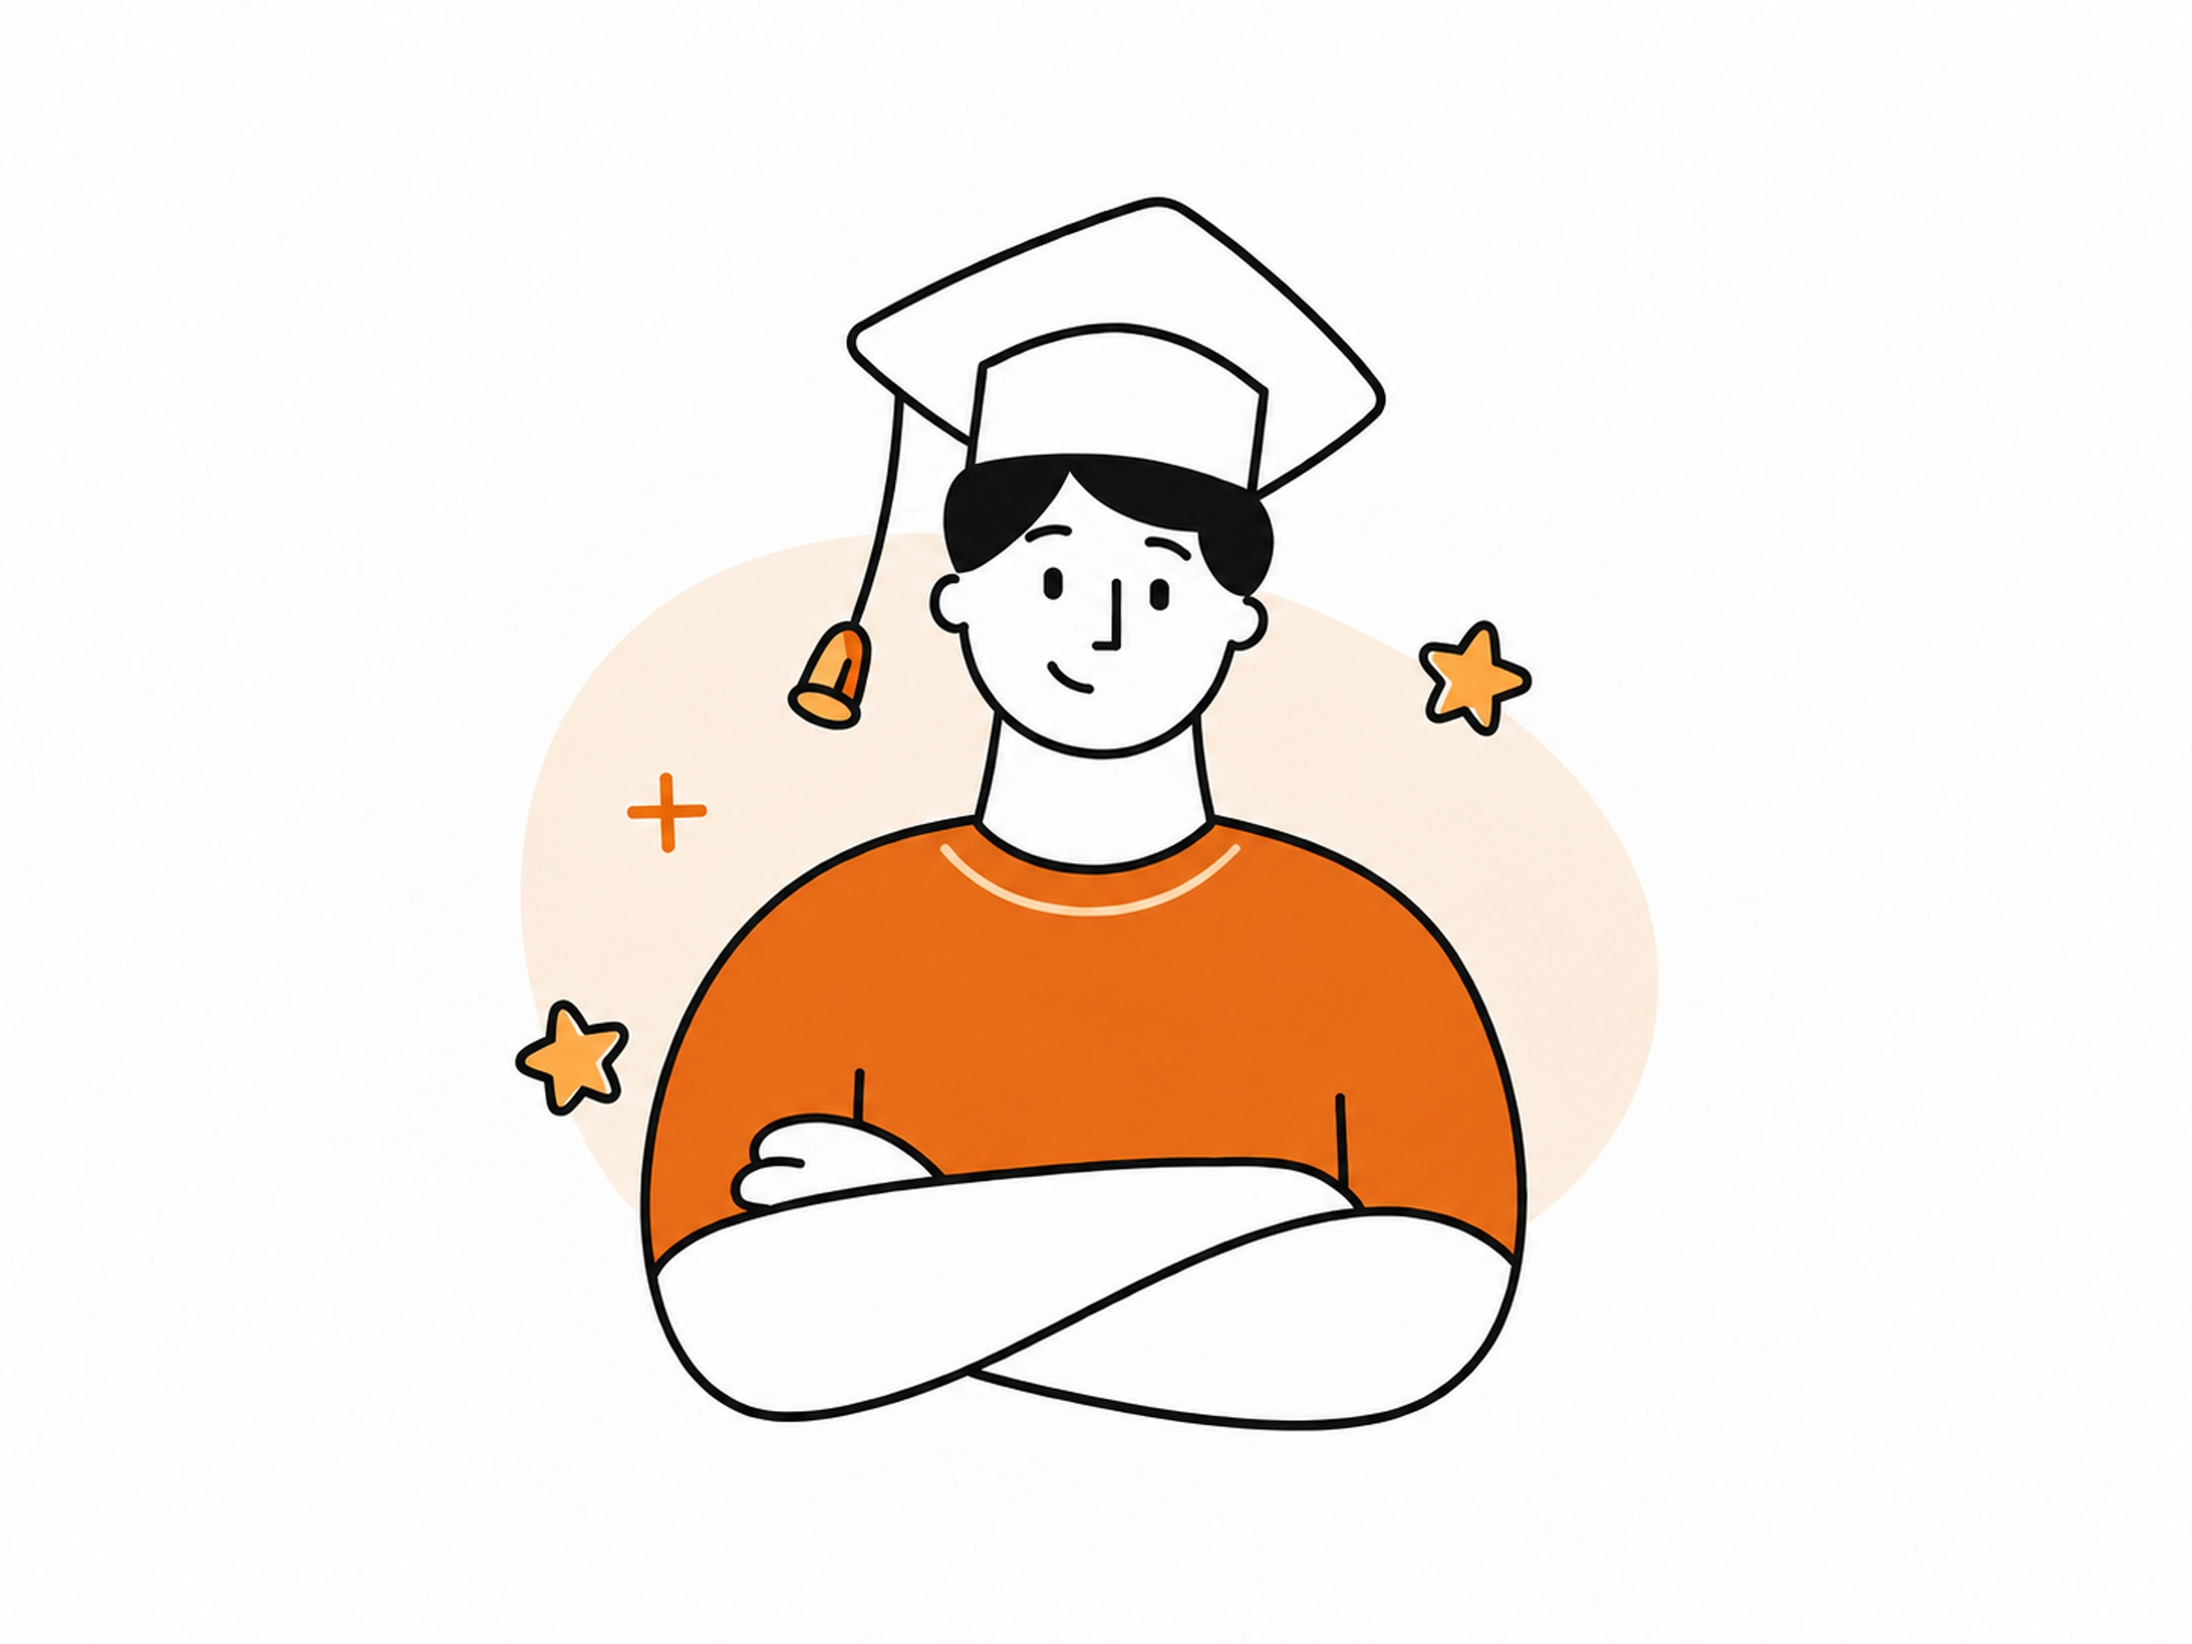
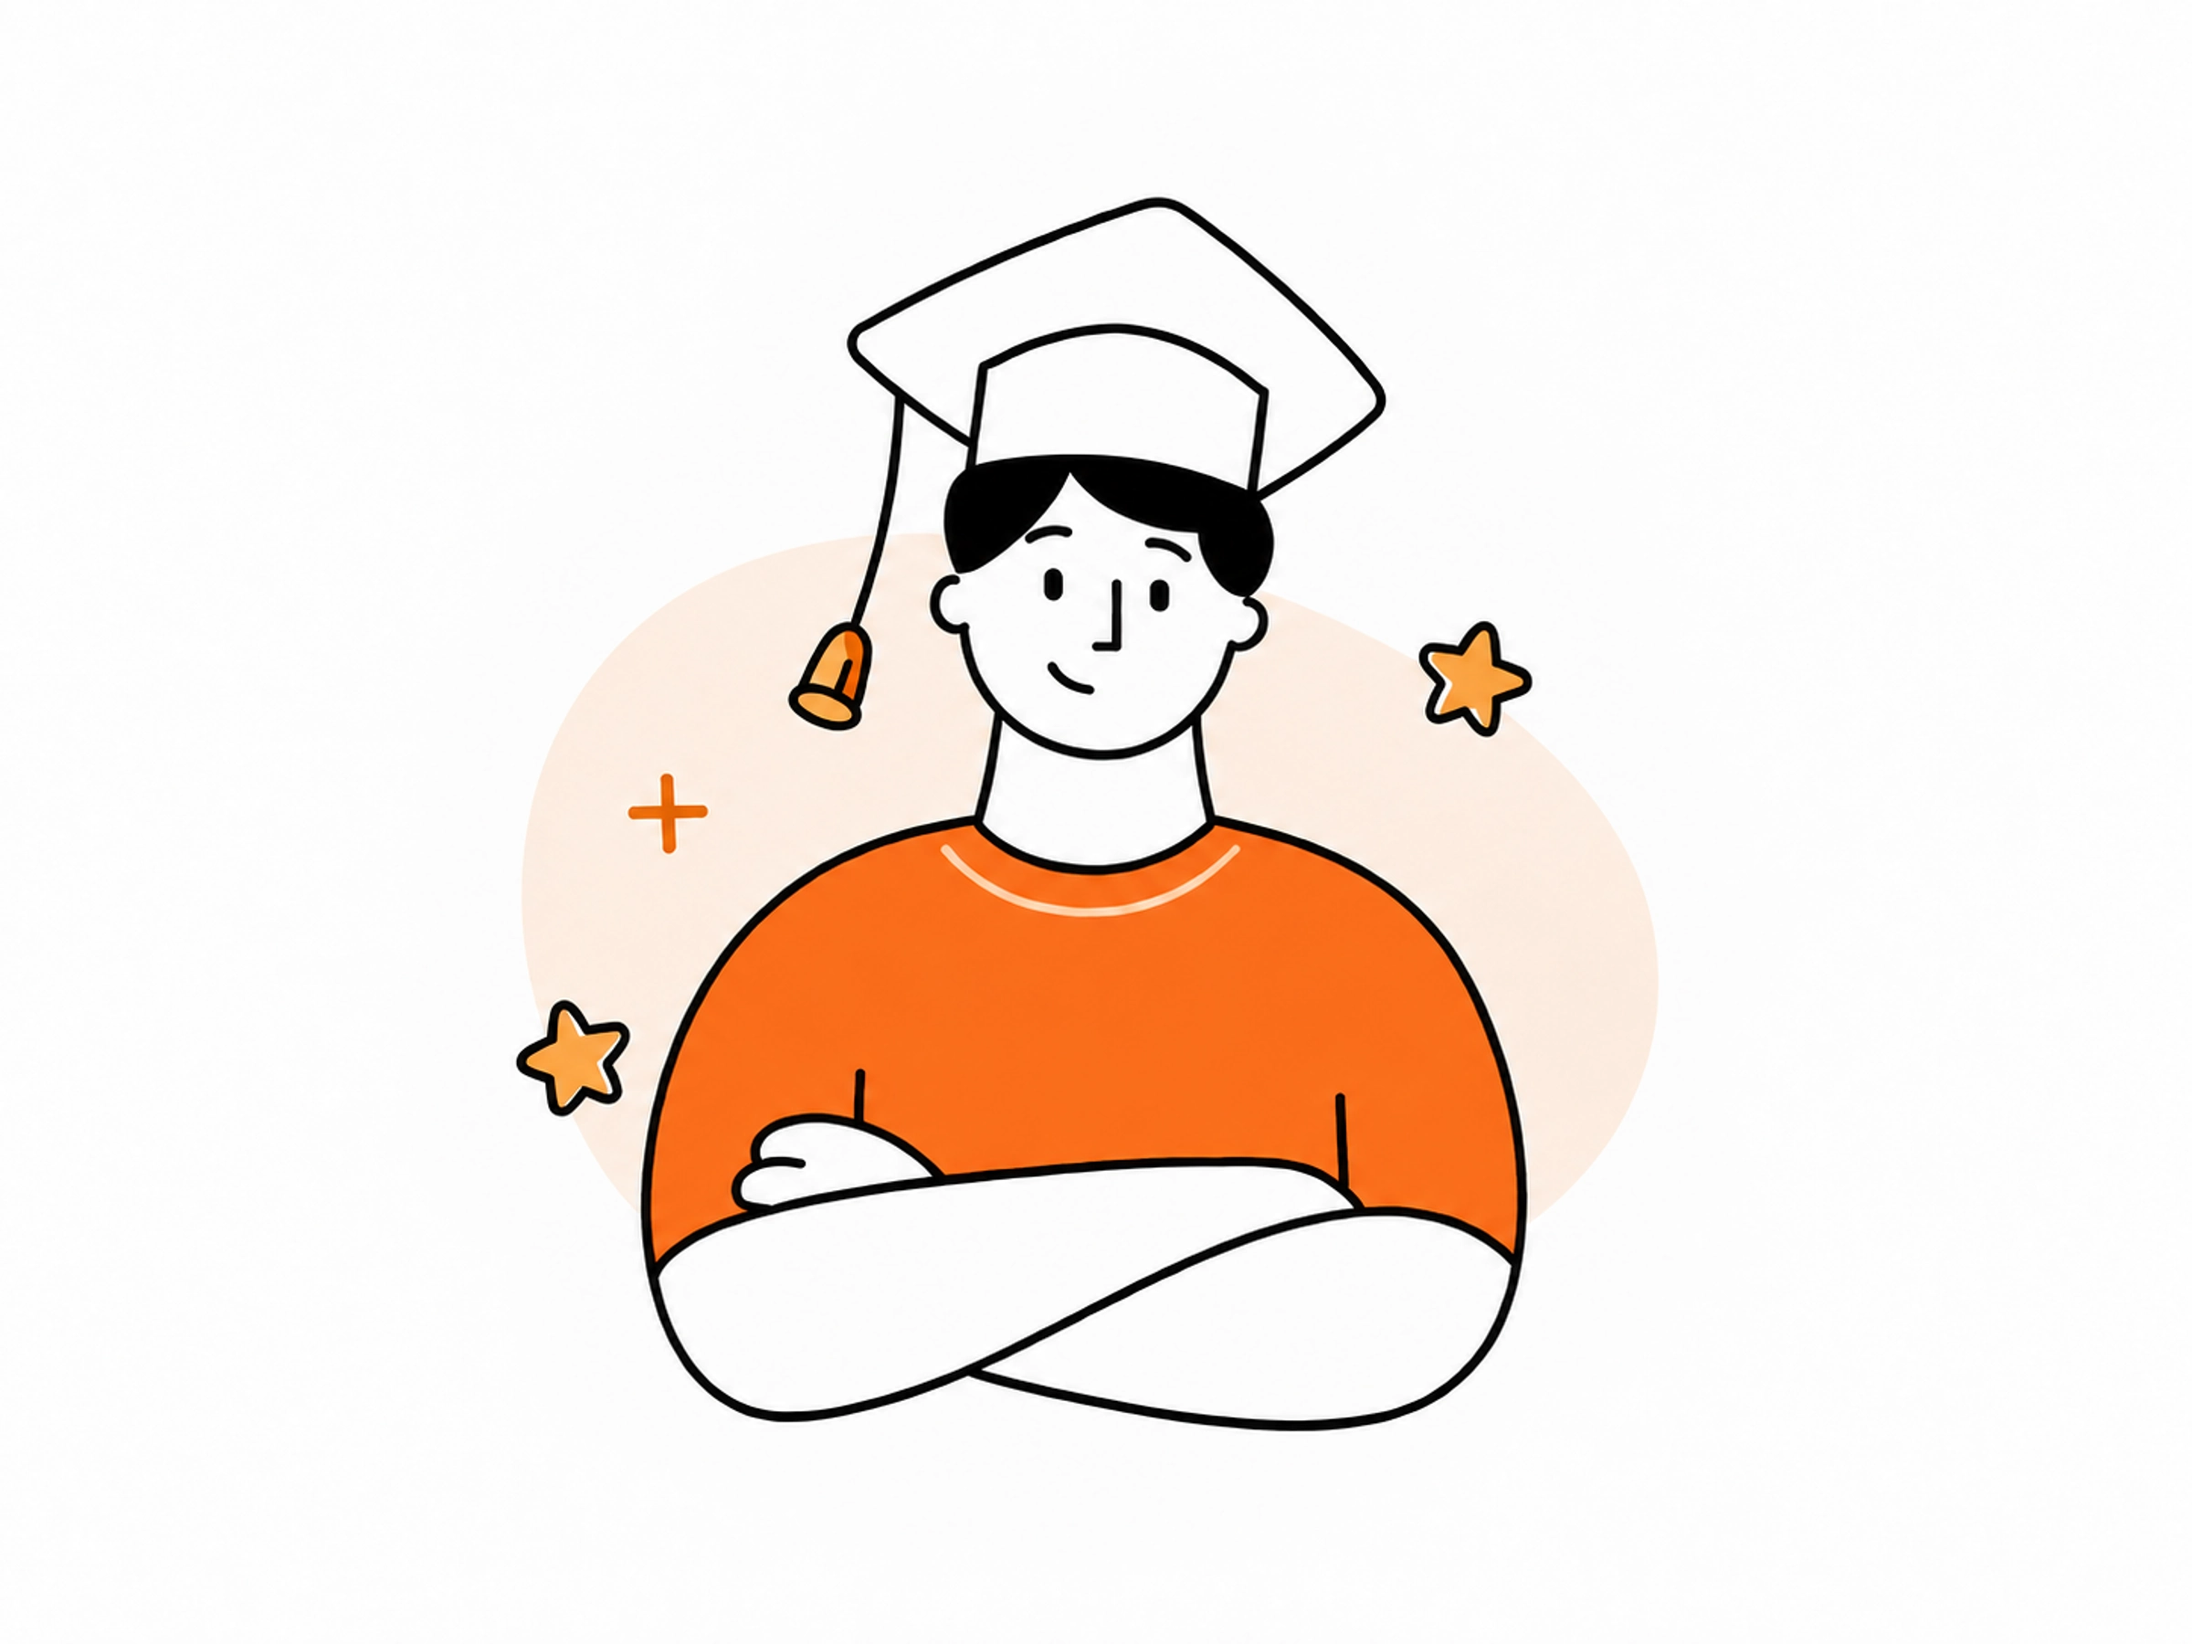
Brighten graduate shirt in homepage carousel

diff --git a/src/widgets/hero/hero-carousel.tsx b/src/widgets/hero/hero-carousel.tsx
@@ -11,7 +11,7 @@ const slides = [
   { src: '/images/hero-slide-2.webp?v=20260929d', alt: 'Ученик читает книгу' },
   { src: '/images/hero-slide-3.webp?v=20260929d', alt: 'Ученица занимается за ноутбуком' },
   { src: '/images/hero-slide-4.webp?v=20260929d', alt: 'Ученик занимается с книгой' },
-  { src: '/images/hero-slide-5.webp?v=20260929d', alt: 'Выпускник в академической шапочке' },
+  { src: '/images/hero-slide-5.webp?v=20260929g', alt: 'Выпускник в академической шапочке' },
 ];
 
 export function HeroCarousel() {
